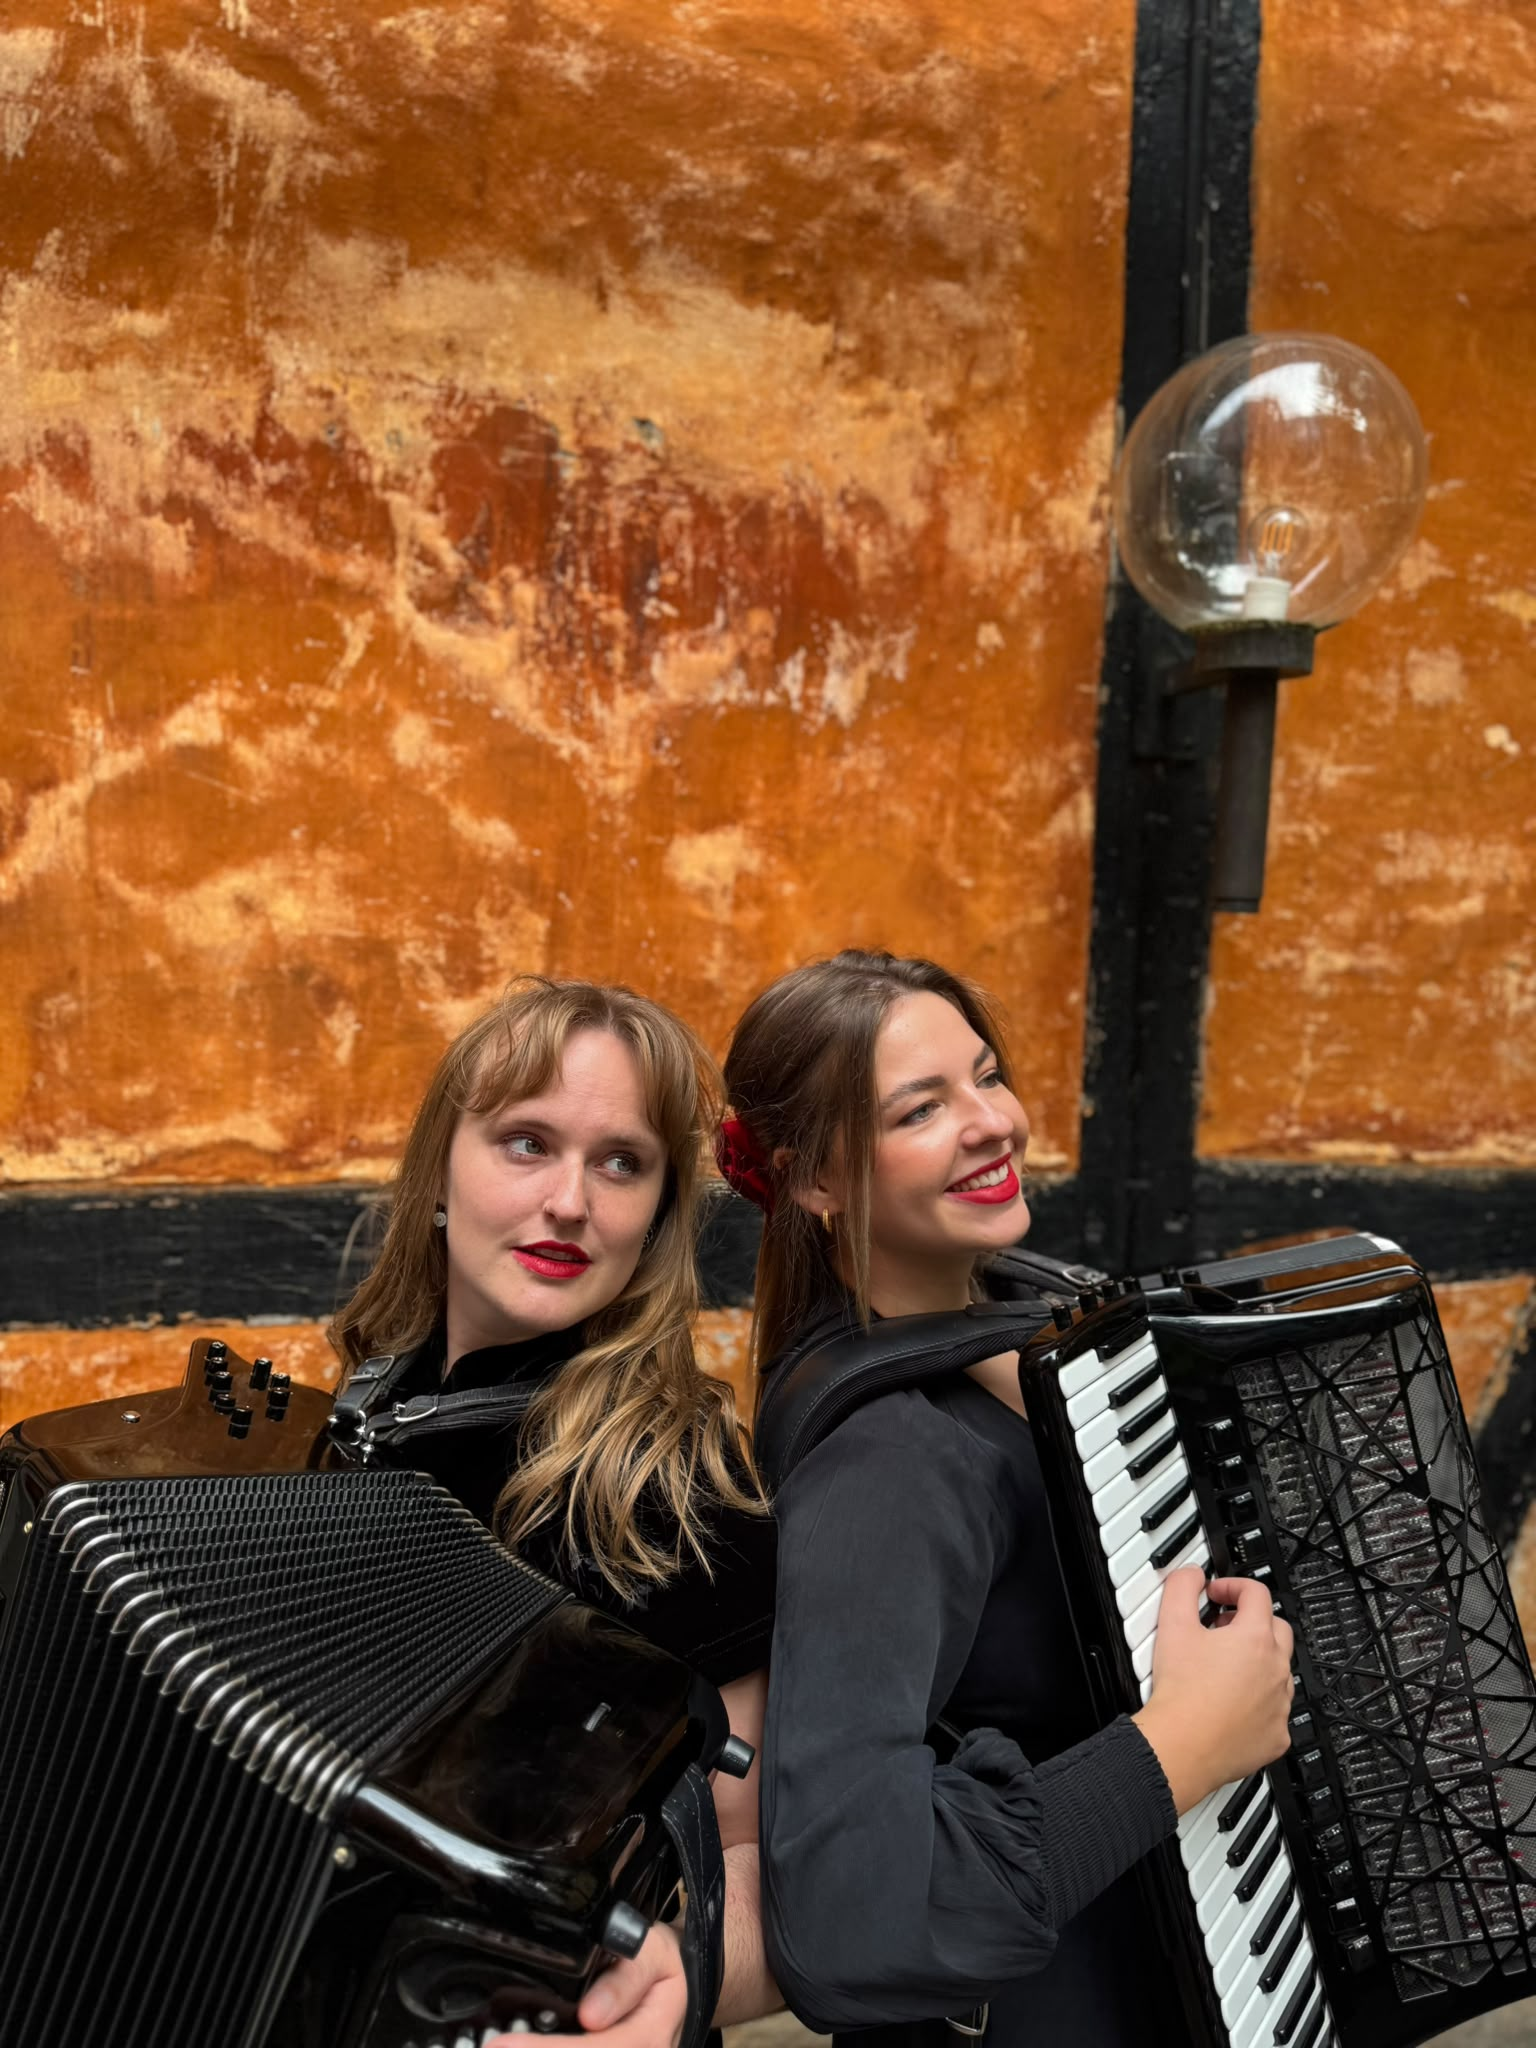
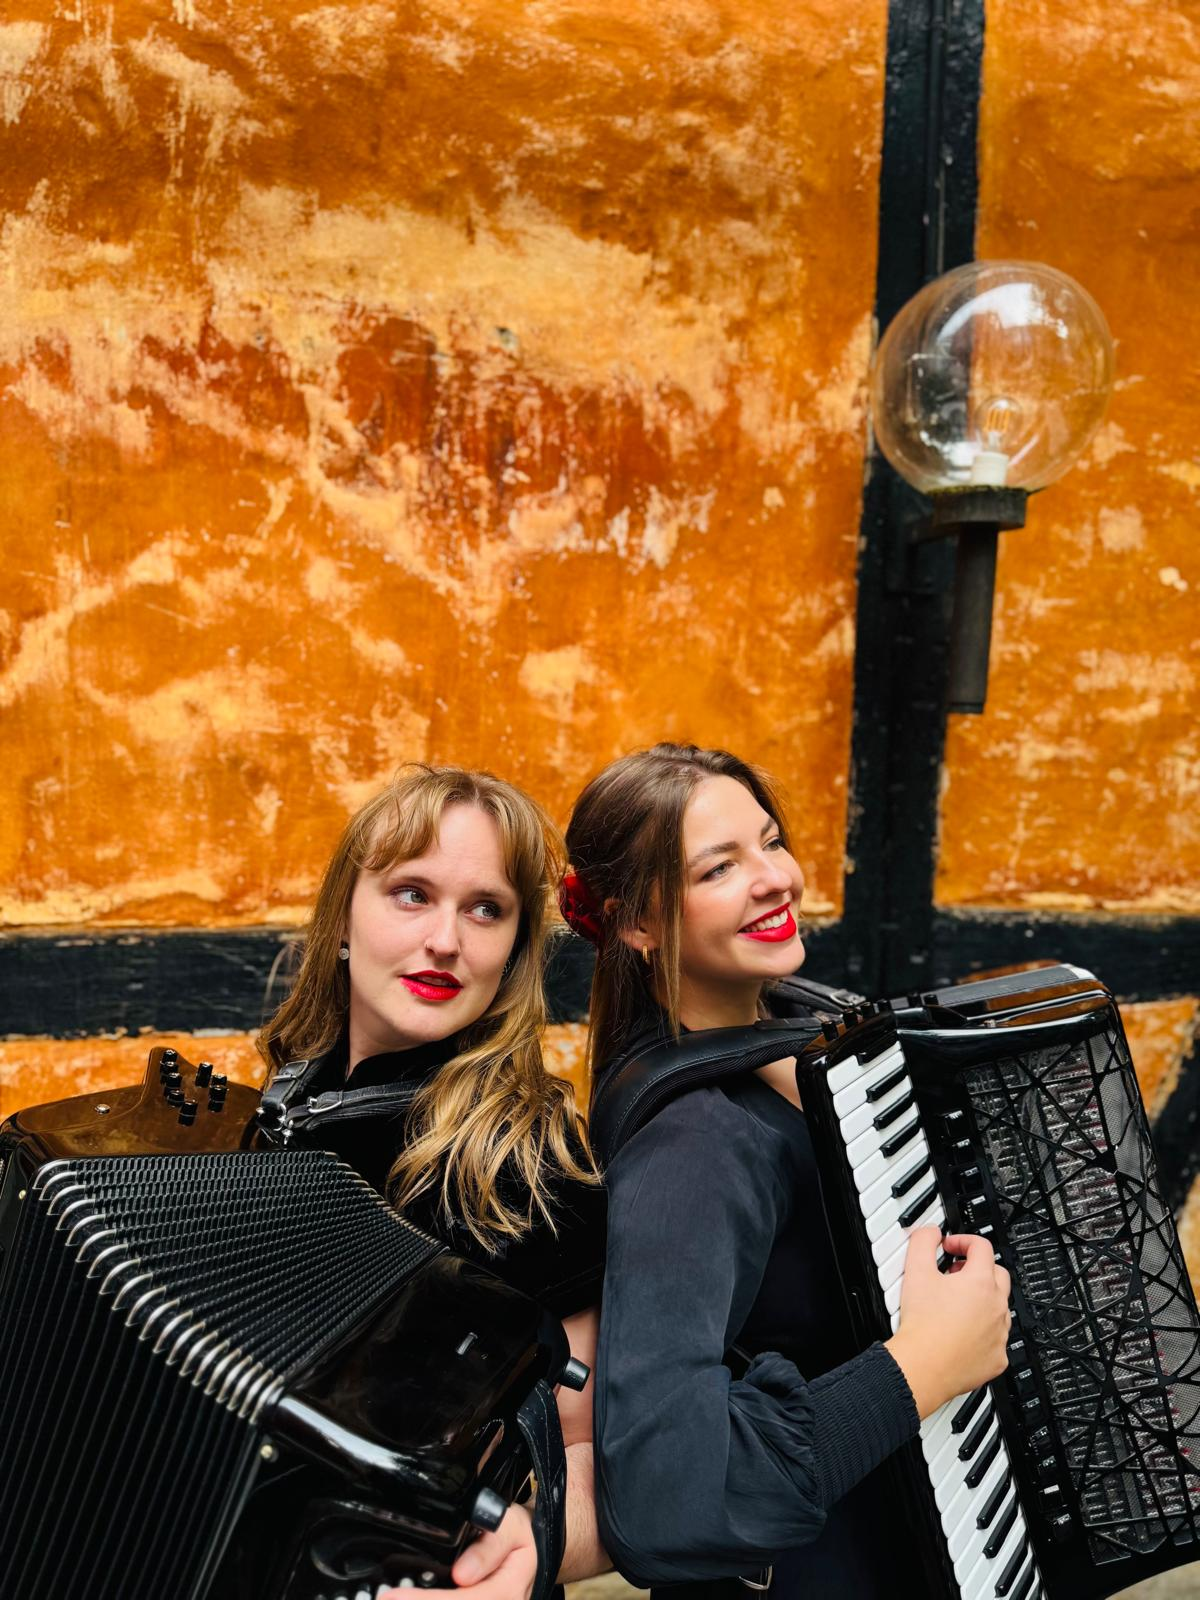
Sacar la mencion de masterclasses, subir foto de hero mas luminosa y fijar workers_dev en wrangler.toml
El workers_dev=true quedo pendiente de commitear del cambio anterior que
conecto el dominio propio (evita que un futuro deploy vuelva a apagar la
URL de workers.dev).

diff --git a/css/style.css b/css/style.css
@@ -441,16 +441,6 @@ h1, h2, h3 {
   color: var(--ink-dim);
   padding: 0.4rem 0;
 }
-.members__masterclasses {
-  text-align: center;
-  margin-top: 3rem;
-  font-family: var(--font-display);
-  font-style: italic;
-  font-size: 1.05rem;
-  color: var(--ink-dim);
-}
-.members__masterclasses strong { color: var(--accent); font-weight: 500; font-style: normal; }
-
 /* ==========================================================================
    REPERTOIRE
    ========================================================================== */

diff --git a/index.html b/index.html
@@ -140,7 +140,6 @@
       </article>
     </div>
 
-    <p class="members__masterclasses" data-reveal>Masterclasses with <strong>Veli Kujala</strong> and <strong>Paulo Jorge Ferreira</strong></p>
   </section>
 
   <!-- ============ REPERTOIRE ============ -->
